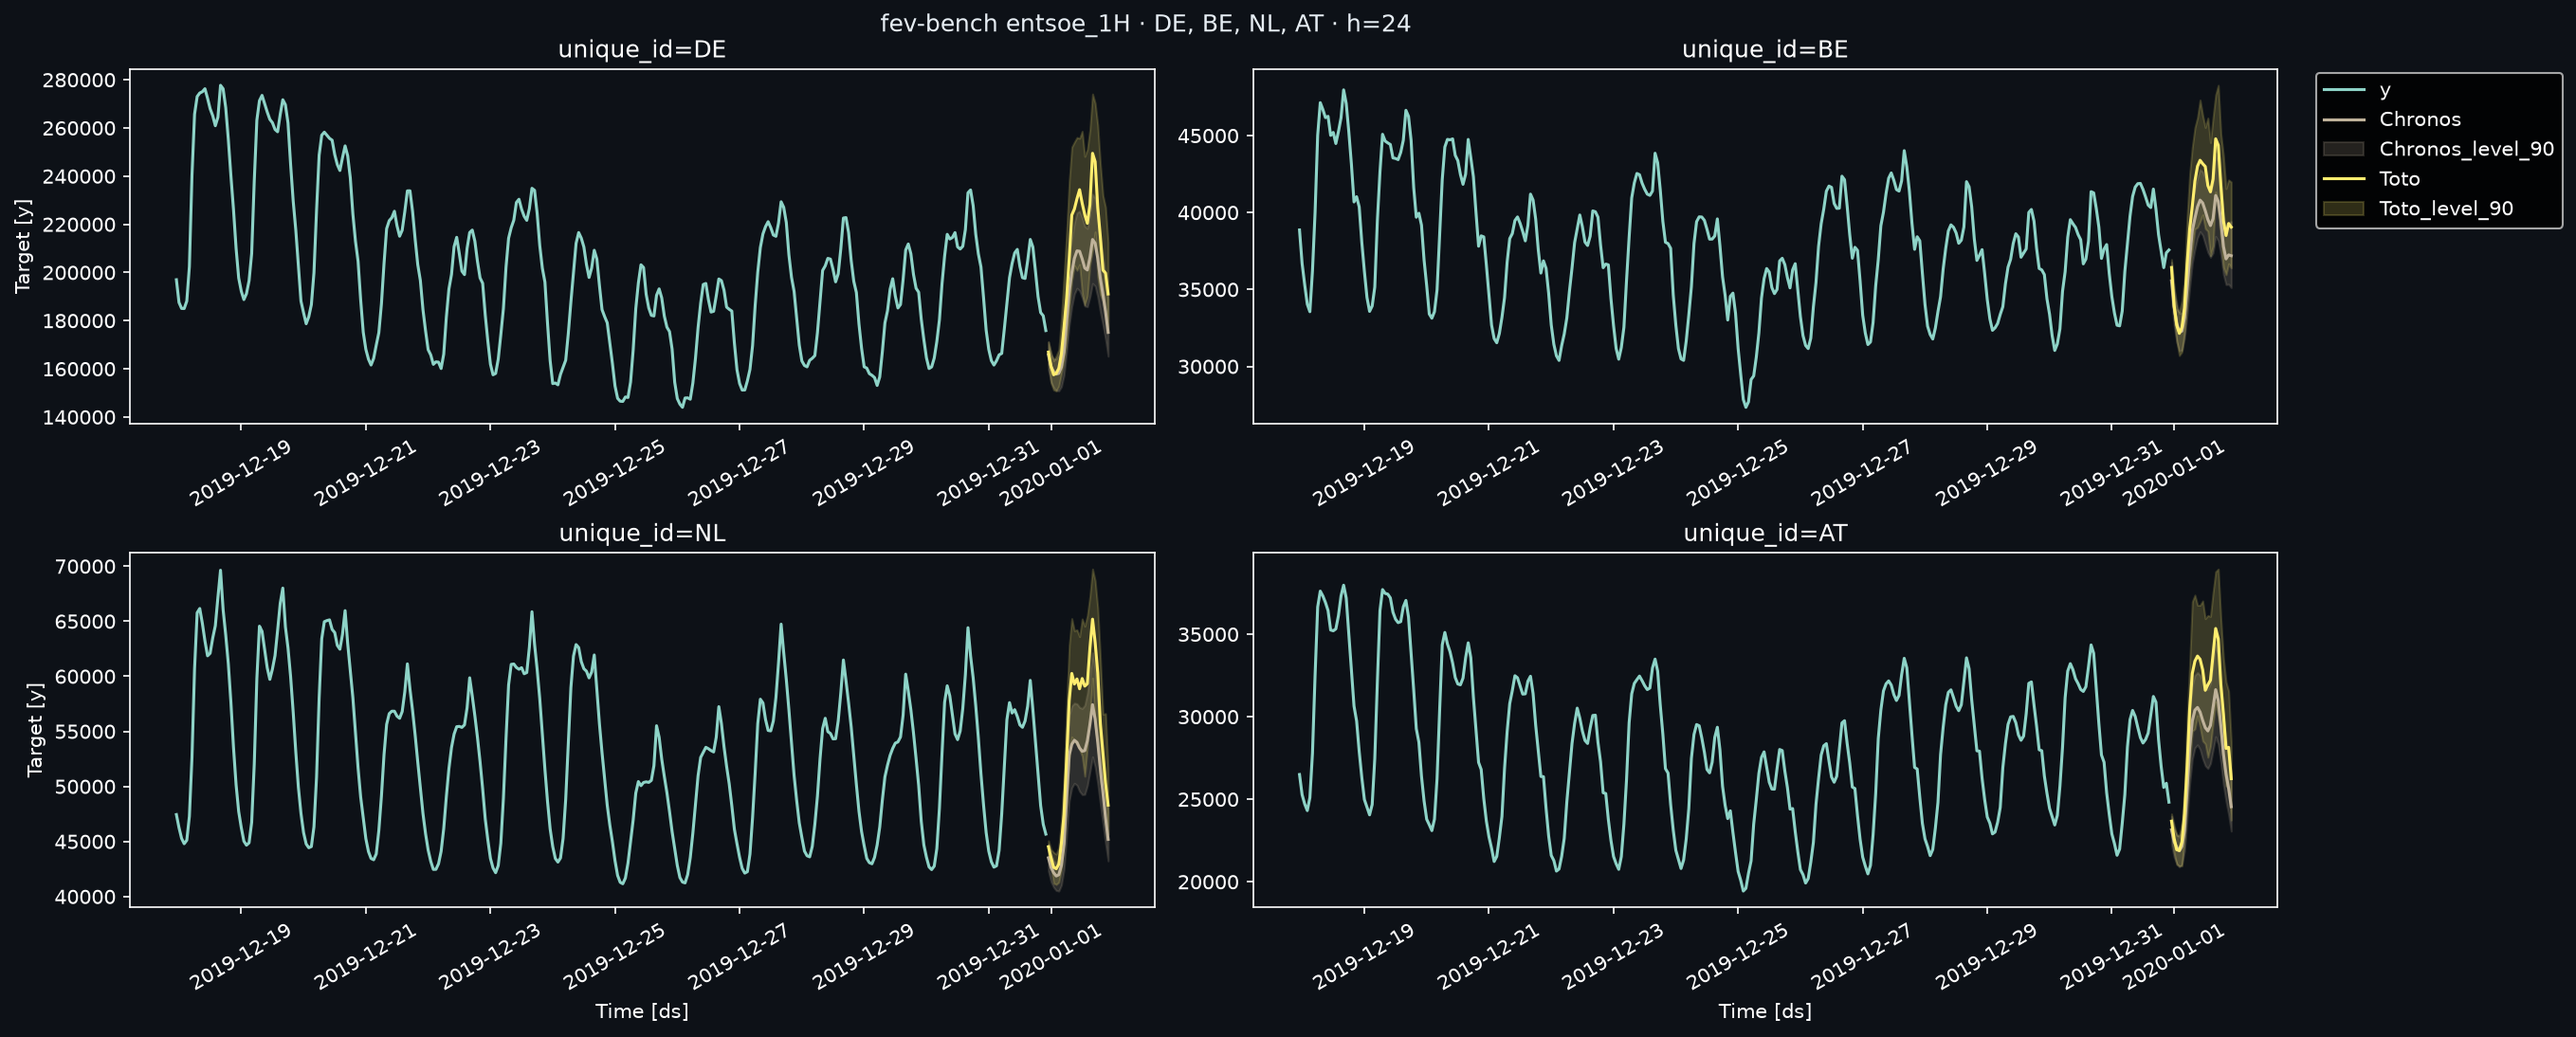
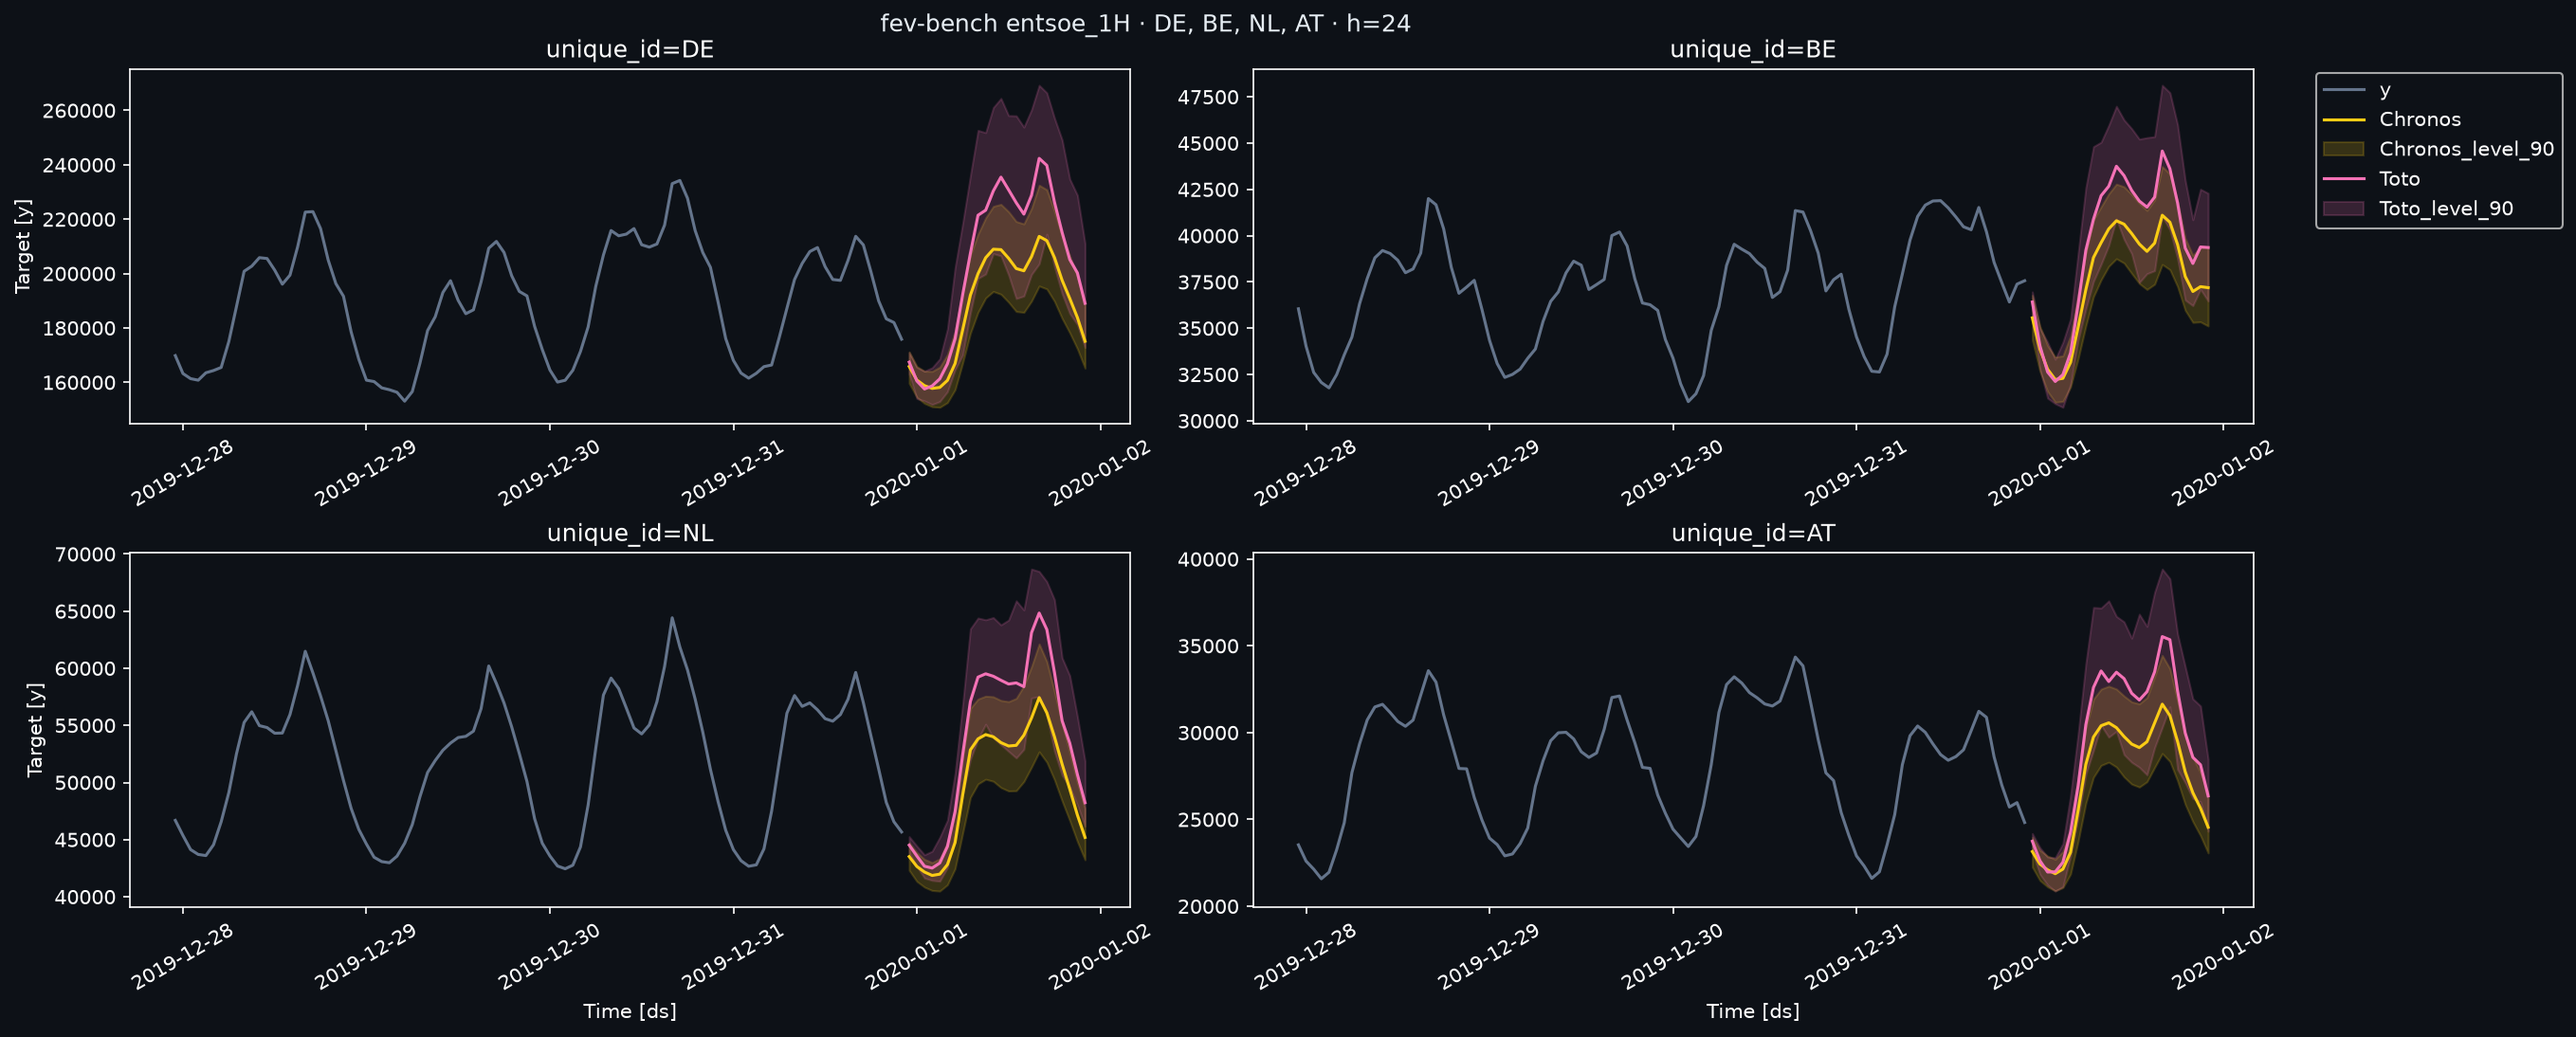
docs(readme): shorter insample window and yellow/pink plot colors

diff --git a/README.md b/README.md
@@ -54,6 +54,9 @@ ff = FoundationForecast(
 fcst_df = ff.forecast(df, h=24, level=[90])
 
 plt.style.use("dark_background")
+plt.rcParams["axes.prop_cycle"] = plt.cycler(
+    color=["#64748b", "#facc15", "#f472b6"]  # history, Chronos, Toto
+)
 ff.plot(
     df=df,
     forecasts_df=fcst_df,
@@ -61,7 +64,7 @@ ff.plot(
     plot_random=False,
     models=["Chronos", "Toto"],
     level=[90],
-    max_insample_length=24 * 14,
+    max_insample_length=24 * 4,
 )
 ```
 
